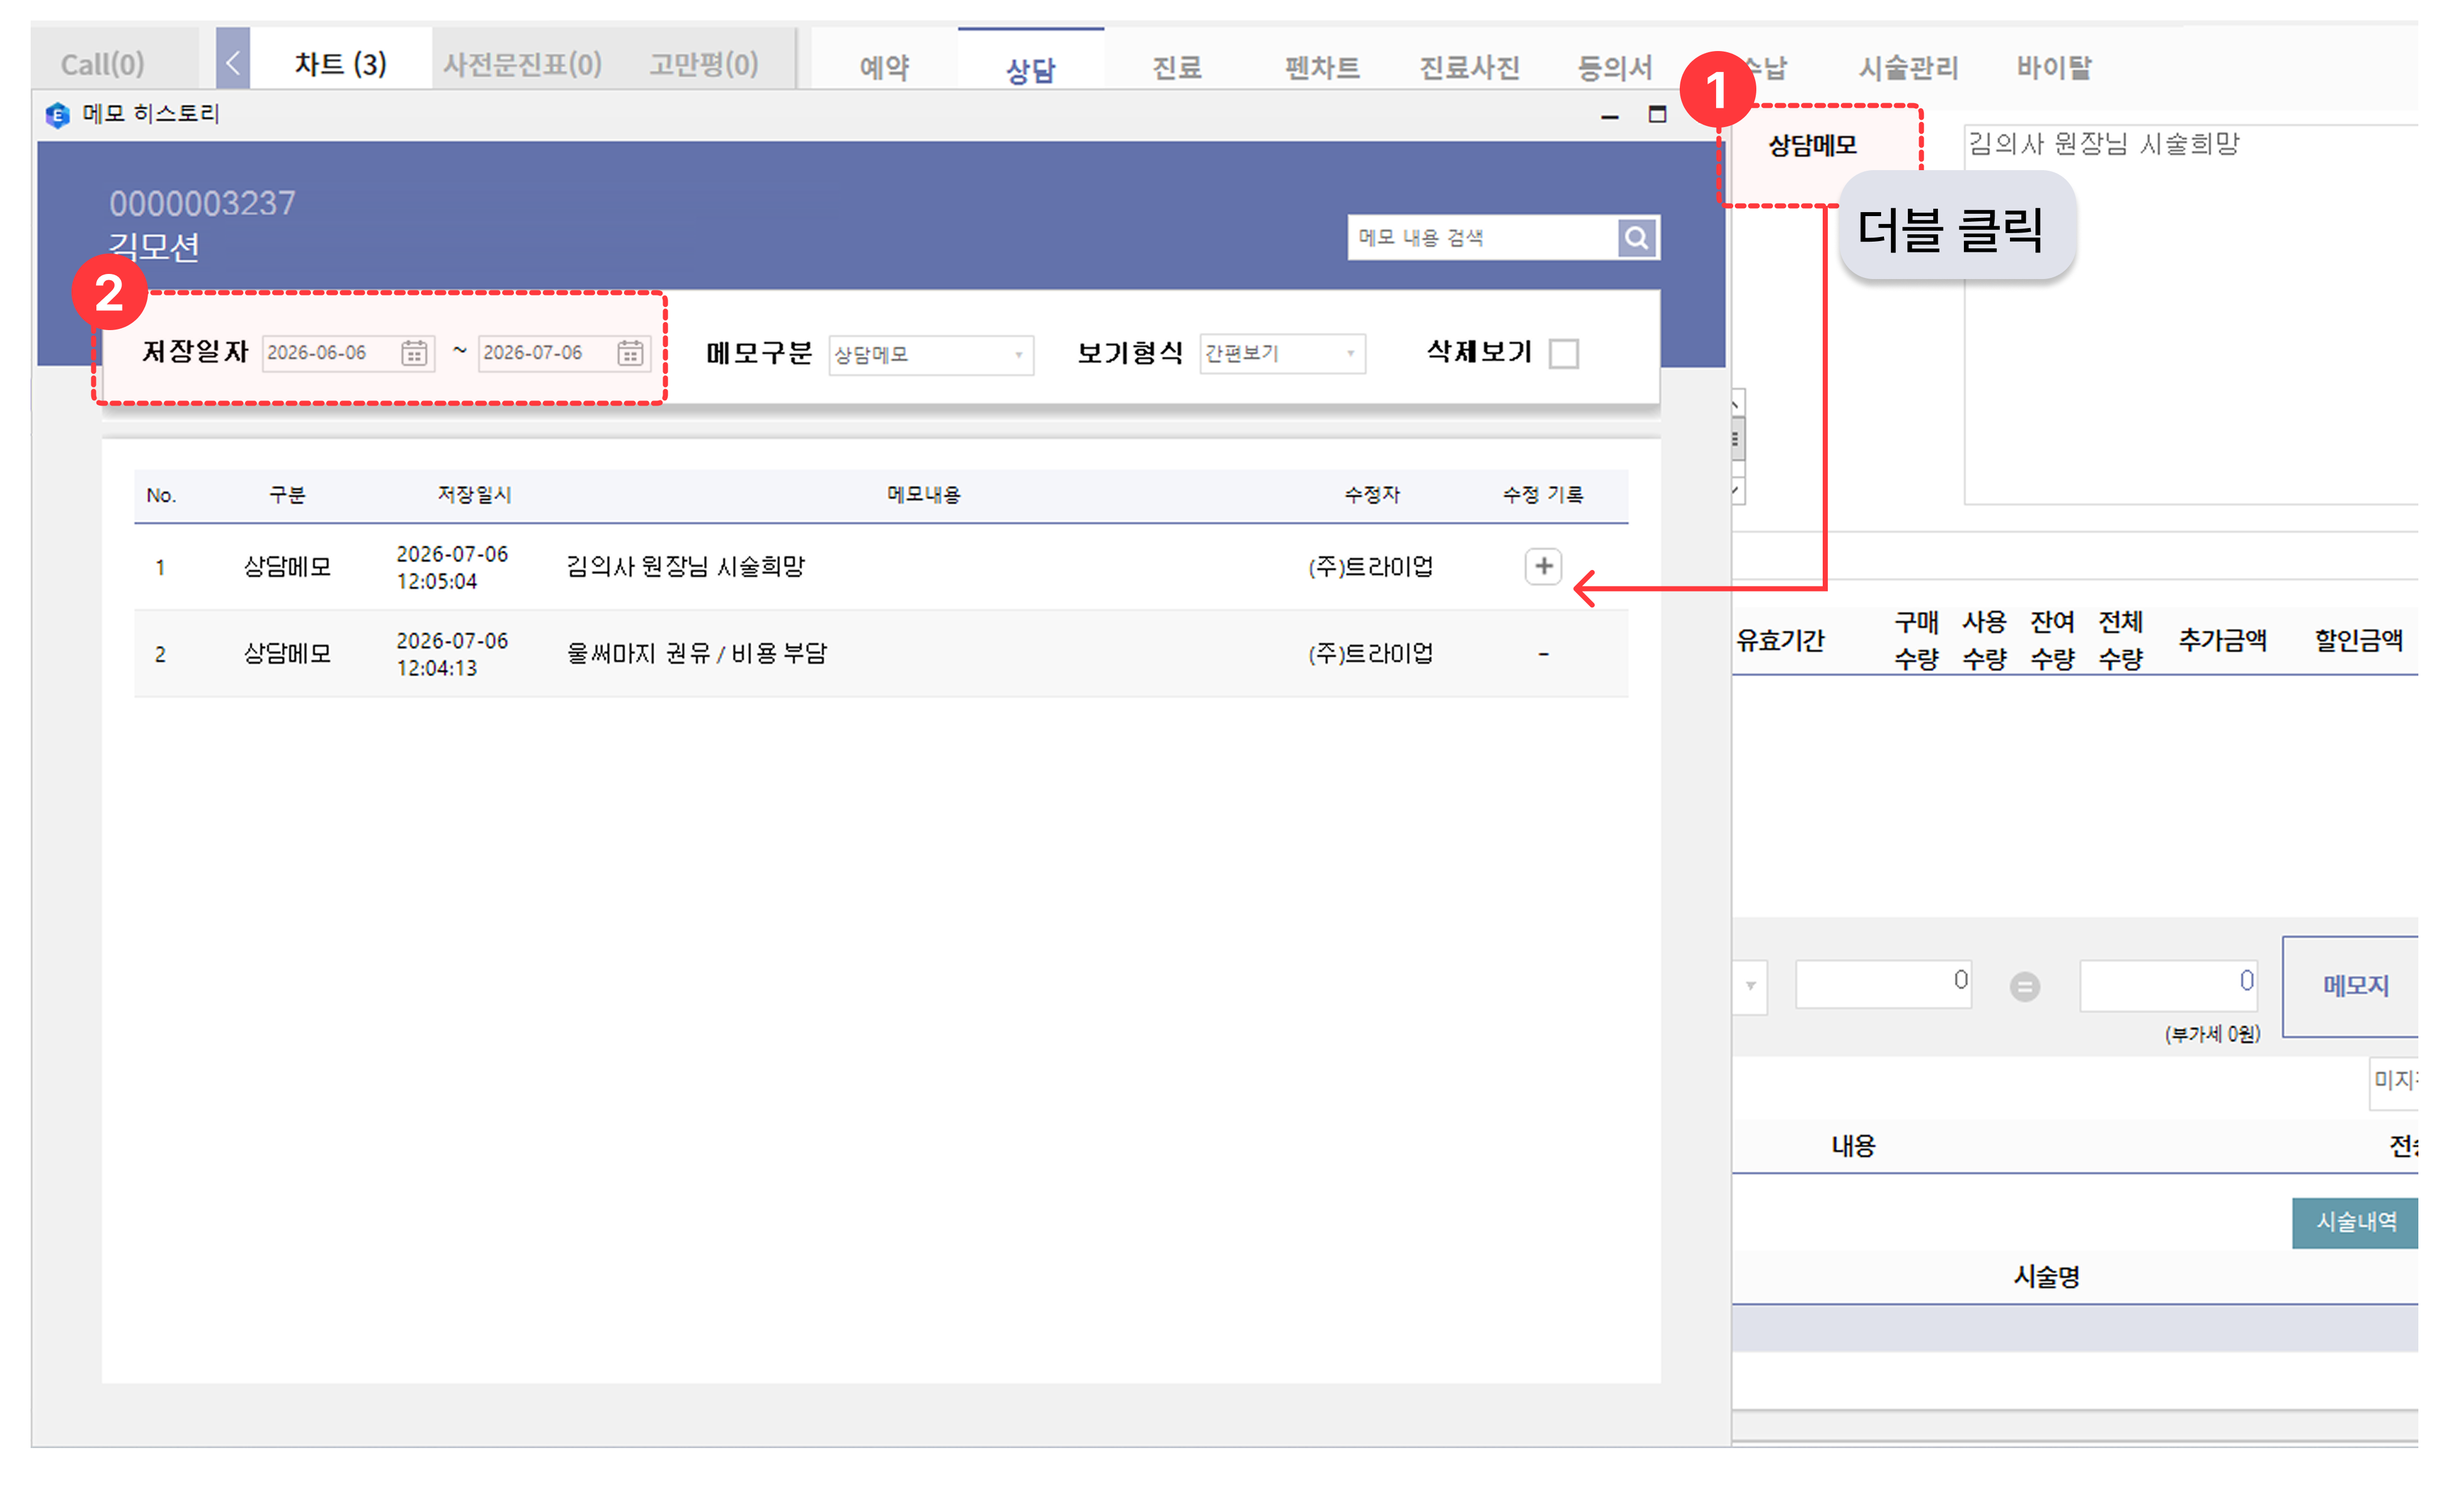
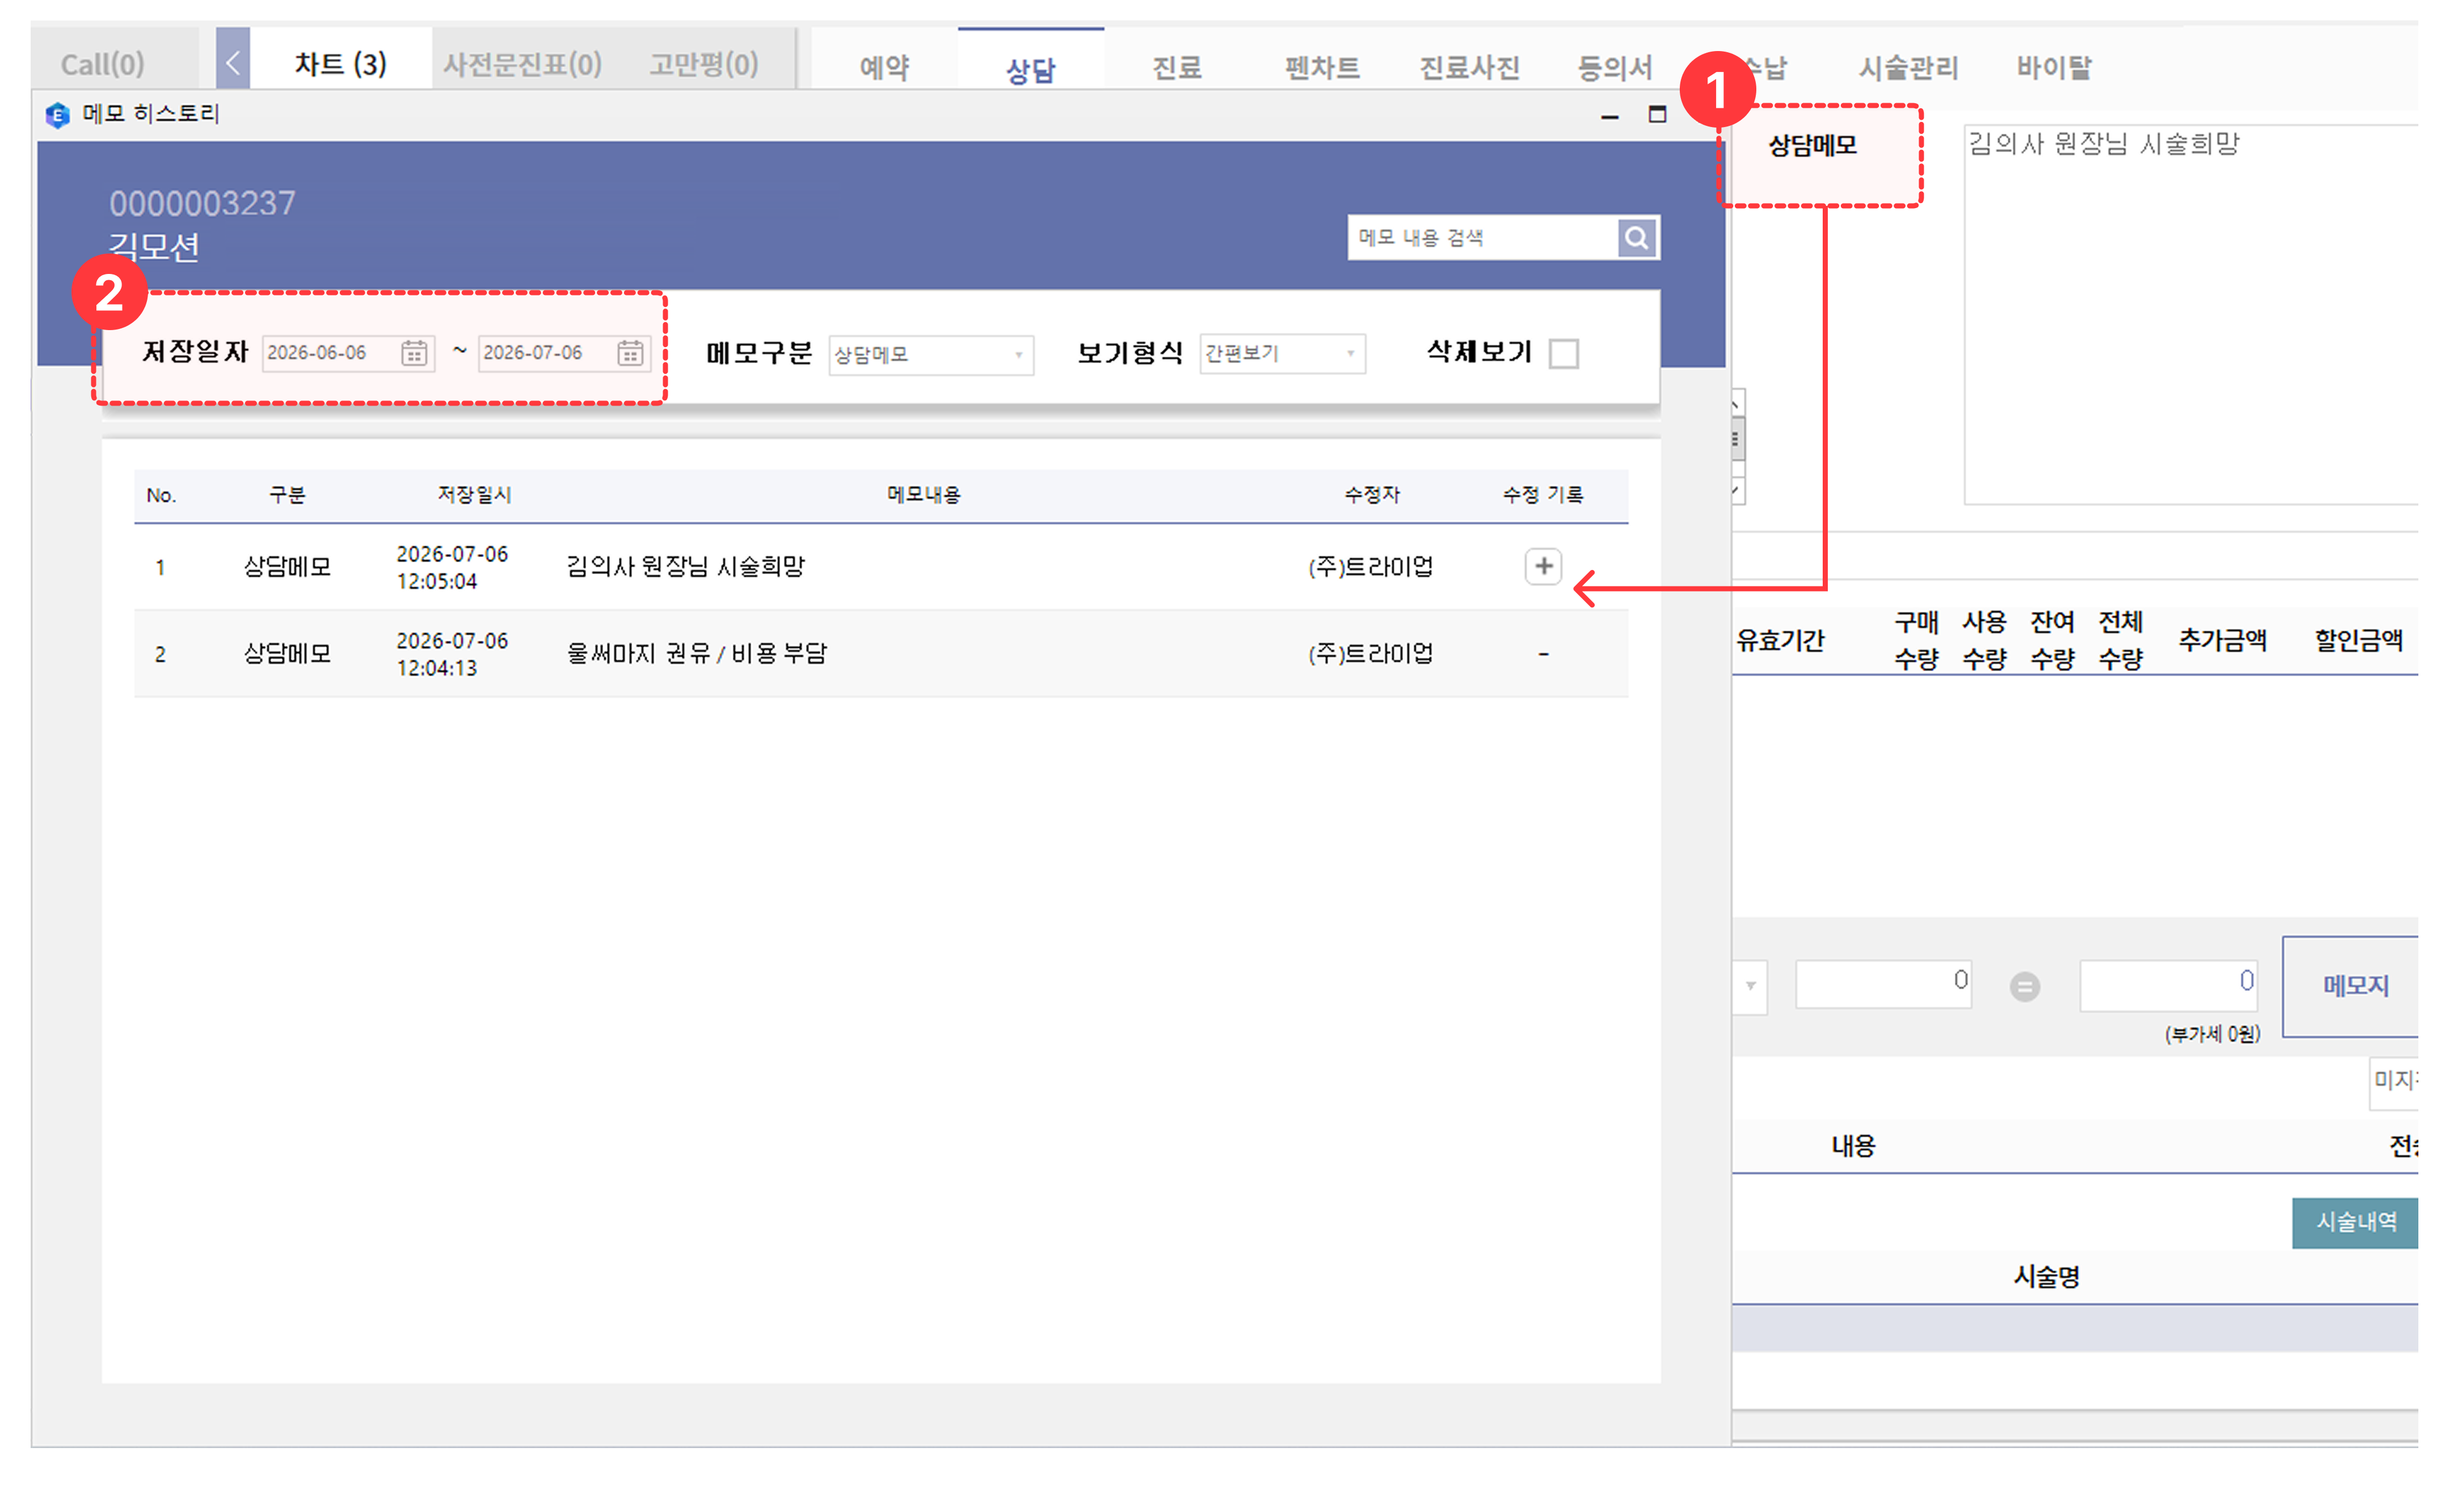
노션 반영: FAQ '상담메모 히스토리' 수정(밑줄 추가 + 이미지 교체)
- 기존 항목 '상담메모 히스토리를 보고 싶어요.'(차트) 본문 수정: '메모 영역'에 밑줄(<u>) 추가, 이미지(faq-07) 최신본으로 교체(648KB→637KB).
- 재발 방지 규칙대로 기존 제목과 일치 → 신규 추가 아닌 제자리 수정으로 처리. FAQ 57개 유지.
- 검증(헤드리스): 밑줄 1개·본문 유지·이미지 참조 유지·FAQ 57·회귀(공지21/매뉴얼25/업데이트8·채널톡) ALL PASS.

Claude-Session: https://claude.ai/code/session_018JD9scHDRQ5W2WzSESAPY8

Changed region(s): [[0.745, 0.0935, 0.8691, 0.1869]]

diff --git a/index.html b/index.html
@@ -700,7 +700,7 @@ footer .logo-triup{height:20px;vertical-align:middle;margin:0 4px;opacity:.8}
 <div class="detail-panel" data-id="f16">
       <div class="dp-cat">차트(상담/진료/수납)</div>
       <h2 class="dp-q">상담메모 히스토리를 보고 싶어요.</h2>
-      <div class="dp-body"><p>고객 차트 내<strong> [상담] 탭&gt; 상담메모 영역을 클릭</strong> 하면 이전 상담메모 히스토리를 확인할 수 있습니다.</p><p>상담메모 뿐만아니라, 예약/접수 메모, 어시메모 등 메모 영역은 클릭을 통해 히스토리 확인이 가능합니다. </p><figure><img loading="lazy" src="images/faq-07.png" alt="이미지"></figure></div>
+      <div class="dp-body"><p>고객 차트 내<strong> [상담] 탭&gt; 상담메모 영역을 클릭</strong> 하면 이전 상담메모 히스토리를 확인할 수 있습니다.</p><p>상담메모 뿐만아니라, 예약/접수 메모, 어시메모 등 <u>메모 영역</u>은 클릭을 통해 히스토리 확인이 가능합니다. </p><figure><img loading="lazy" src="images/faq-07.png" alt="이미지"></figure></div>
     </div>
 <div class="detail-panel" data-id="f17">
       <div class="dp-cat">차트(상담/진료/수납)</div>
